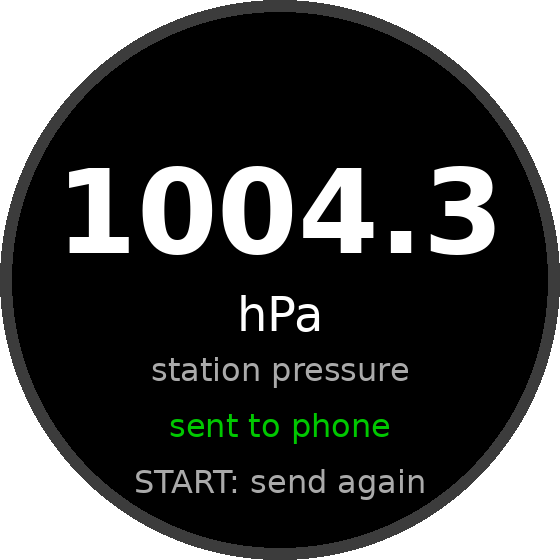
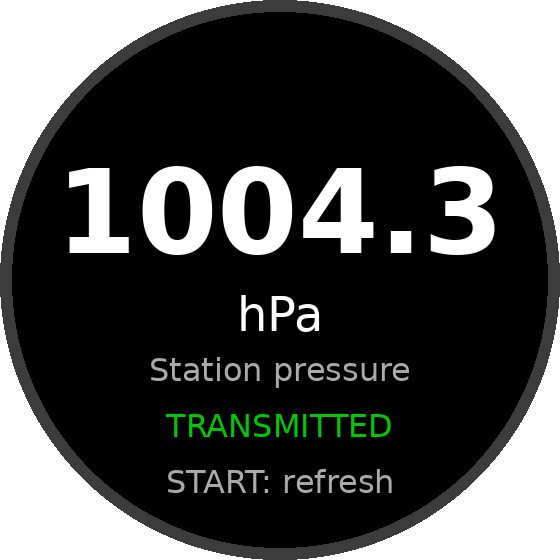
Watch app: new status texts and the phone app's pressure unit
The phone sends its pressure unit with each request; the watch shows the
reading in it (hPa, mmHg or inHg) and remembers it. Texts: "Station
pressure", TRANSMITTED, "START: refresh", in every language. Store
screens updated.

Claude-Session: https://claude.ai/code/session_01NLeKACm7kwTNp1mv5qZrsu

Changed region(s): [[0.2732, 0.6375, 0.7286, 0.6982], [0.2429, 0.8196, 0.7589, 0.9107], [0.3036, 0.7286, 0.6982, 0.7893]]

diff --git a/app/src/main/kotlin/pl/ballistics/app/data/GarminPressure.kt b/app/src/main/kotlin/pl/ballistics/app/data/GarminPressure.kt
@@ -32,9 +32,10 @@ object GarminPressure {
 
     /**
      * Opens the watch app (the watch asks to confirm) and waits for its reading. [onPrompt] is called
-     * when the watch shows that prompt, so the user can be told to accept it.
+     * when the watch shows that prompt, so the user can be told to accept it. The watch shows its reading
+     * in [unit] ("hPa", "mmHg" or "inHg"), the app's pressure unit; the reading itself travels in Pa.
      */
-    suspend fun read(context: Context, timeoutMs: Long = 45_000, onPrompt: () -> Unit = {}): Result {
+    suspend fun read(context: Context, unit: String = "hPa", timeoutMs: Long = 45_000, onPrompt: () -> Unit = {}): Result {
         if (!garminConnectInstalled(context)) return Result.NoGarminConnect
         val app = context.applicationContext
         val ciq = ConnectIQ.getInstance(app, ConnectIQ.IQConnectType.WIRELESS)
@@ -61,7 +62,7 @@ object GarminPressure {
                         }
                     }
                     // A running app answers this; one that is starting sends its reading by itself.
-                    ciq.sendMessage(device, iqApp, mapOf("get" to 1)) { _, _, _ -> }
+                    ciq.sendMessage(device, iqApp, mapOf("get" to 1, "unit" to unit)) { _, _, _ -> }
                 }
             }
             return withTimeoutOrNull(timeoutMs) { answer.await() }

diff --git a/garmin/README.md b/garmin/README.md
@@ -10,7 +10,8 @@ not depend on the watch's altitude calibration. Temperature is not sent: a wrist
 2. The phone asks the watch to open Station Pressure; confirm on the watch.
 3. The watch sends its reading, and the phone fills in the pressure and switches it to station pressure.
 
-The watch app also shows the pressure itself and sends it again when you press START. It runs only
+The watch app also shows the pressure itself, in the unit the phone app asks for (hPa, mmHg or inHg; the reading
+always travels in Pa), and sends it again when you press START. It runs only
 while open (no background service) and closes itself 5 s after a reading reaches the phone. Messages go
 through Garmin Connect on the phone (Connect IQ Mobile SDK), so the watch must be paired there.
 
